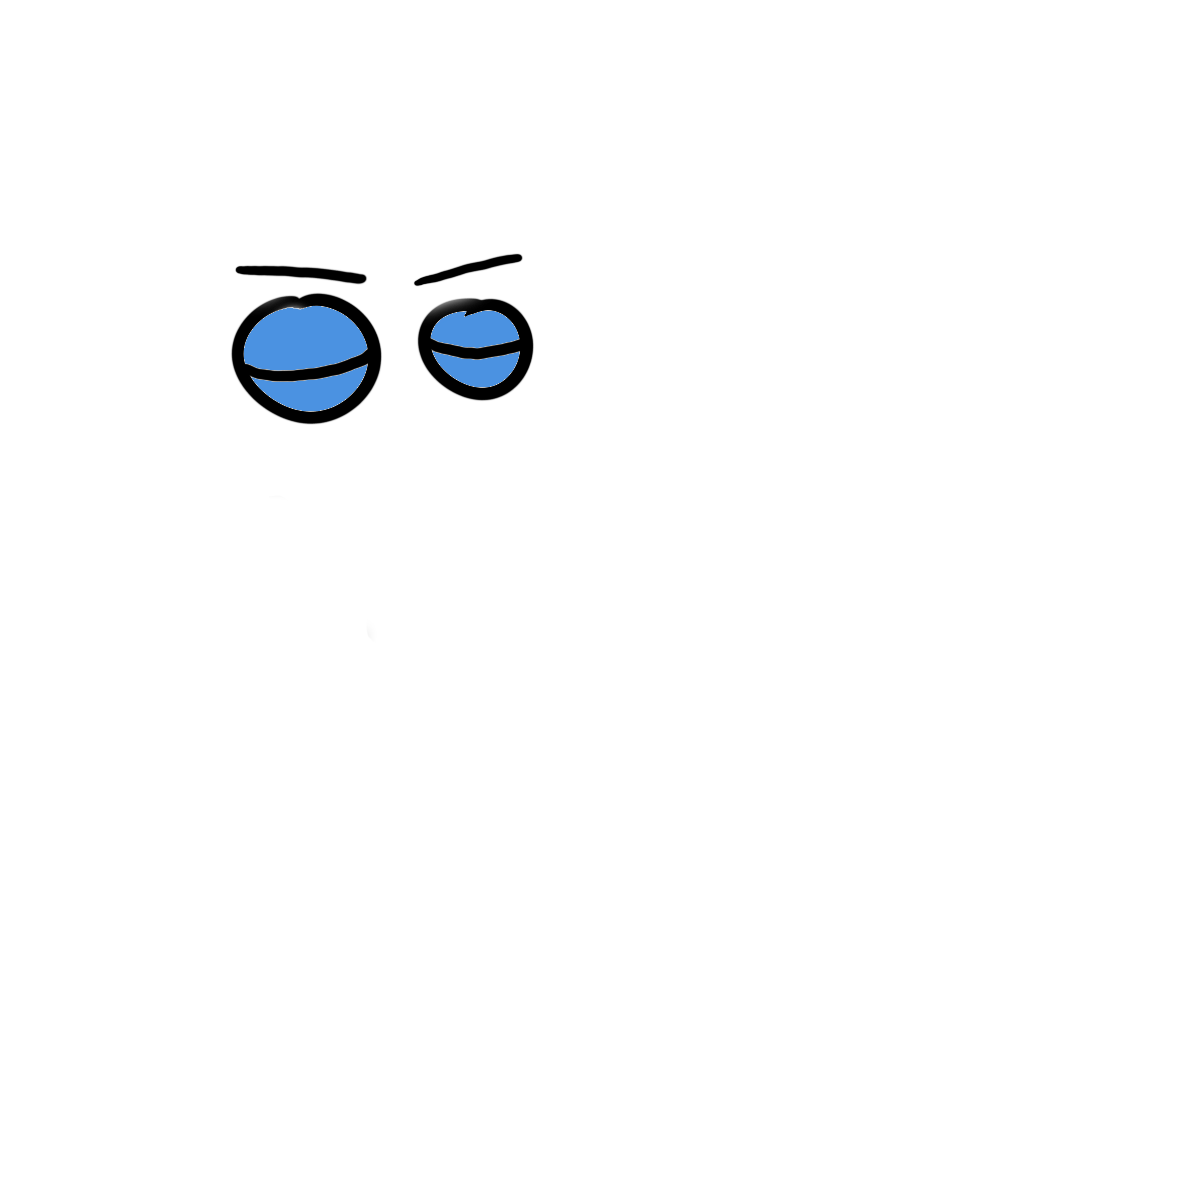
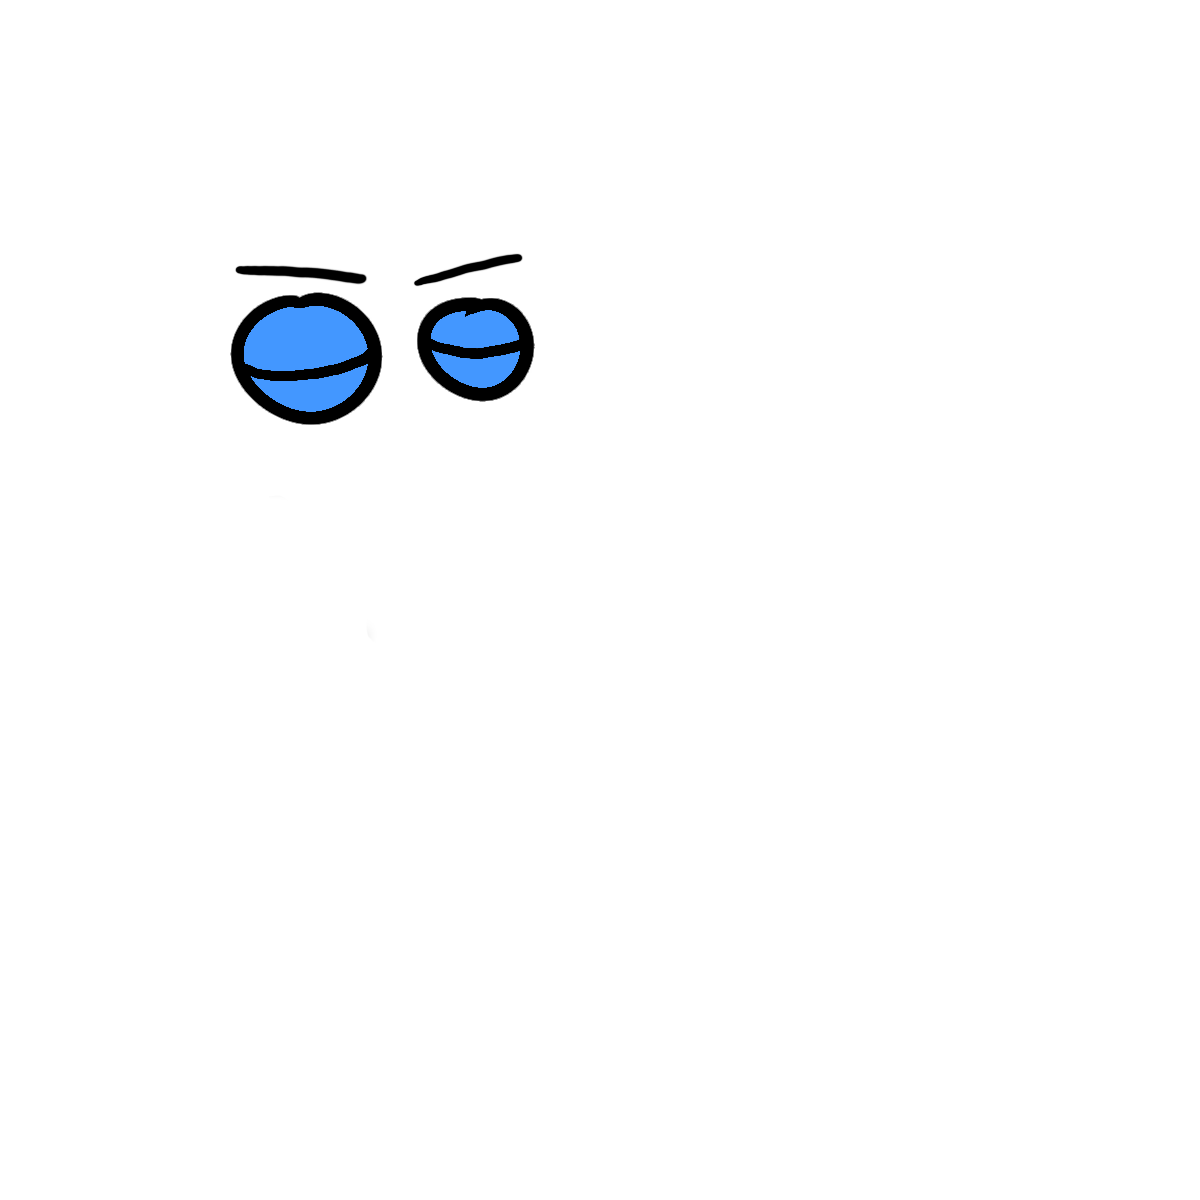
Added async CLI input handling

Changed region(s): [[0.185, 0.2467, 0.3083, 0.37], [0.3392, 0.2467, 0.4317, 0.3392]]

diff --git a/app.py b/app.py
@@ -1,4 +1,4 @@
-import sys, random
+import sys, random, threading
 from PySide6.QtWidgets import (
     QApplication,
     QGraphicsView,
@@ -10,14 +10,17 @@ from PySide6.QtCore import Qt, QTimer
 from PySide6.QtGui import QBrush, QColor, QPainter
 
 from models import Snake, GraphicsObject
+from util import Async_Bridge
 
 class App(QApplication):
     def __init__(self):
         super().__init__(sys.argv)
 
         self.scene  = QGraphicsScene()
+        self.bg     = GraphicsObject(0,0, ['bg'], z = 0, scale = 0.4)
         self.pascal = Snake(0, 0, scale=0.4)
 
+        self.bg.load(self.scene)
         self.pascal.load(self.scene)
 
 
@@ -25,10 +28,18 @@ class App(QApplication):
 
         self._setup_view()
 
+        # Initialize async bridge:
+        self.bridge = Async_Bridge()
+        self.bridge.move_signal.connect(self.view.move)
+        self.bridge.noisy_signal.connect(self._noisy)
+
+        # Initialize async command loop:
+        threading.Thread(target=self._cmd_loop, daemon=True).start()
+
         self._flick()
         self.pascal.activate_animation('shake')
         self.pascal.activate_animation('blink')
-        
+        self._noisy()        
 
     def _setup_view(self):
         
@@ -63,6 +74,28 @@ class App(QApplication):
             time = random.randint(1,10)
             QTimer.singleShot(time*1000, self._flick)
         else:
-            self.pascal.activate_animation('flick')
-            time = random.random()
+            if not 'noisy' in self.pascal.active_animations:
+                self.pascal.activate_animation('flick')
+            time = random.random()+0.3
             QTimer.singleShot(time*1000, self._flick)
+    
+    def _noisy(self):
+        if 'noisy' in self.pascal.active_animations:
+            self.pascal.deactivate_animation('noisy')
+        else:
+            self.pascal.activate_animation('noisy')
+
+    def _cmd_loop(self):
+        while True:
+            cmd = input('> ')
+
+            if cmd == 'quit':
+                self.quit()
+            elif cmd == 'noisy':
+                self.bridge.noisy_signal.emit()
+            elif 'move' in cmd:
+                crds = cmd.split(' ')
+                try:
+                    self.bridge.move_signal.emit(int(crds[1]), int(crds[2]))
+                except:
+                    print('move failed')

diff --git a/models.py b/models.py
@@ -83,11 +83,12 @@ class Snake:
         self.scale = scale
 
         self.body = {
-            'eyes'   : GraphicsObject(x, y, ['eyes_neutral', 'eyes_closed'],                      z = 5, scale = scale),
-            'tail'   : GraphicsObject(x, y, ['tail_neutral', 'tail_down'],                        z = 4, scale = scale),
-            'head'   : GraphicsObject(x, y, ['head_neutral', 'head_smile'],                       z = 3, scale = scale),
-            'tongue' : GraphicsObject(x, y, [None, 'tongue_neutral', 'tongue_up', 'tongue_down'], z = 2, scale = scale),
-            'mat'    : GraphicsObject(x, y, ['mat_purple'],                                       z = 1, scale = scale),
+            'headphones' : GraphicsObject(x, y, [None, 'headphones'],                                 z = 6, scale = scale),
+            'eyes'       : GraphicsObject(x, y, ['eyes_neutral', 'eyes_closed'],                      z = 5, scale = scale),
+            'tail'       : GraphicsObject(x, y, ['tail_neutral', 'tail_down'],                        z = 4, scale = scale),
+            'head'       : GraphicsObject(x, y, ['head_neutral', 'head_smile', 'head_upset'],         z = 3, scale = scale),
+            'tongue'     : GraphicsObject(x, y, [None, 'tongue_neutral', 'tongue_up', 'tongue_down'], z = 2, scale = scale),
+            'mat'        : GraphicsObject(x, y, ['mat_purple'],                                       z = 1, scale = scale),
         }
 
         self.active_animations = set()
@@ -103,7 +104,11 @@ class Snake:
             'shake'   : {'tail'  : [ (TL_NEUTRAL, 300), (TL_DOWN, 300) ],
                          },
             'smile'   : {'head'  : [ (H_SMILE, 0) ],
-                         }
+                         },
+            'noisy'   : {'head'  : [ (H_UPSET, 0) ],
+                         'eyes'  : [ (E_CLOSED, 0) ],
+                         'headphones'  : [ (HP_ON, 0) ],
+                         },
         }
 
     def activate_animation(self, animation):

diff --git a/util.py b/util.py
@@ -3,7 +3,7 @@ from PySide6.QtWidgets import (
     QGraphicsPixmapItem
 )
 from PySide6.QtGui import QPixmap
-from PySide6.QtCore import Qt
+from PySide6.QtCore import Qt, QObject, Signal
 
 ASSET_PATH = os.path.abspath('./assets')
 
@@ -12,6 +12,7 @@ ASSET_PATH = os.path.abspath('./assets')
 # Head
 H_NEUTRAL = 0
 H_SMILE   = 1
+H_UPSET   = 2
 
 # Tail
 TL_NEUTRAL = 0
@@ -26,6 +27,10 @@ TG_NEUTRAL = 1
 TG_UP      = 2
 TG_DOWN    = 3
 
+# Headphones
+HP_ON = 1
+
+
 def load_pixmap(filename: (str|None), filetype:str = 'png'):
     if filename == None:
         return None
@@ -36,3 +41,6 @@ def load_frames(files:list[str|None], filetype:str = 'png'):
     return [load_pixmap(file, filetype) for file in files]
 
 
+class Async_Bridge(QObject):
+    move_signal  = Signal(int, int)
+    noisy_signal = Signal() 

diff --git a/main.py b/main.py
@@ -6,5 +6,5 @@ if __name__ == '__main__':
     app = App()
 
     signal.signal(signal.SIGINT, signal.SIG_DFL)
-    
+
     sys.exit(app.exec())